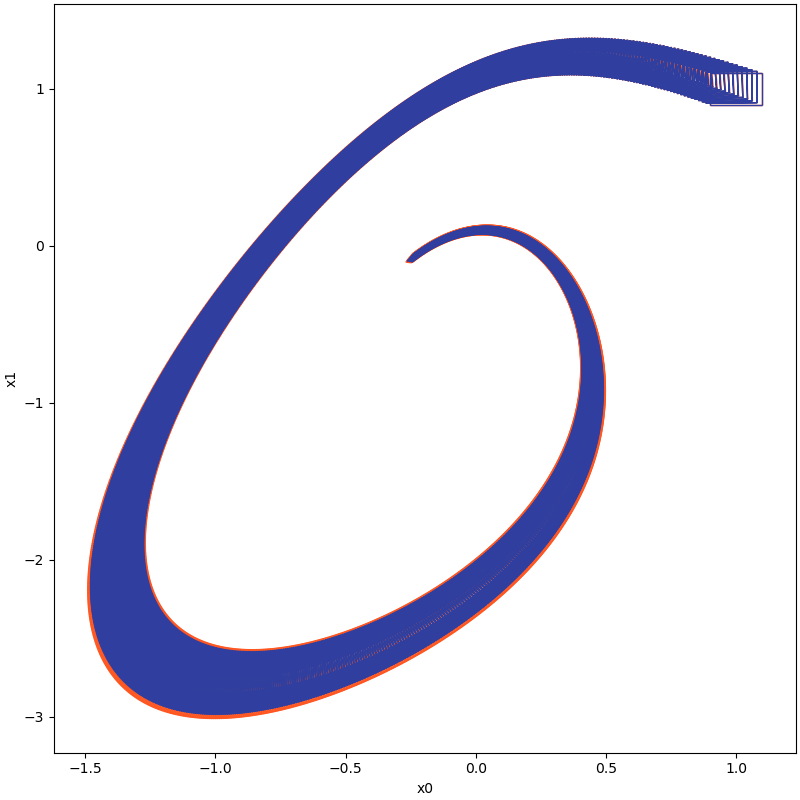
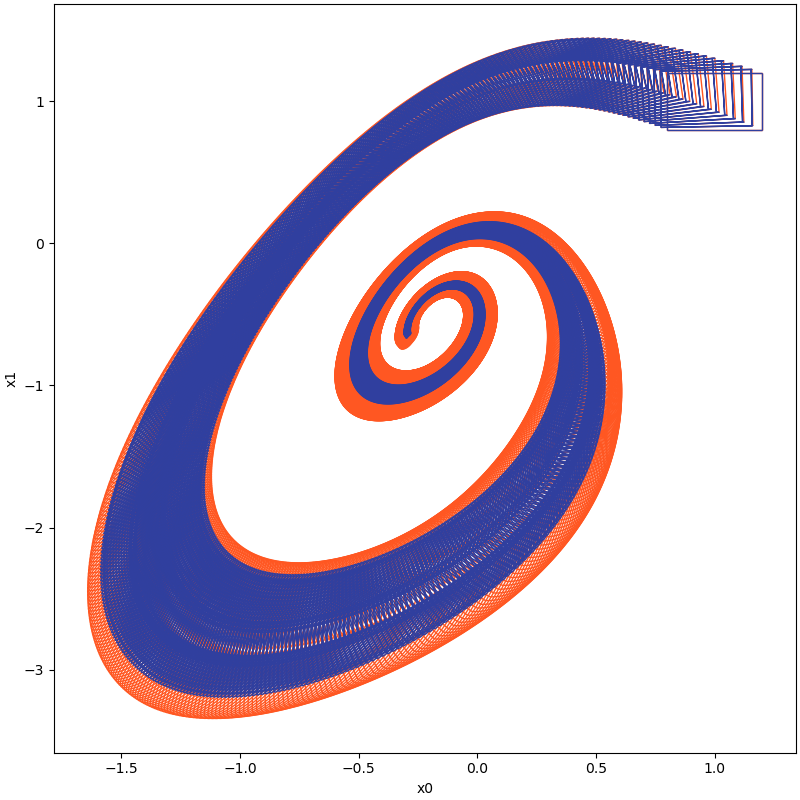
refine samples

diff --git a/test/algorithm/test_asb2008cdc.py b/test/algorithm/test_asb2008cdc.py
@@ -119,8 +119,8 @@ def test_jet_engine_cmp():
 
     # settings for the computation
     options = ASB2008CDC.Options()
-    options.t_end = 5
-    options.step = 0.005
+    options.t_end = 10
+    options.step = 0.01
     options.tensor_order = 2
     options.taylor_terms = 4
 
@@ -131,7 +131,7 @@ def test_jet_engine_cmp():
     Zonotope.REDUCE_METHOD = Zonotope.REDUCE_METHOD.GIRARD
     Zonotope.ORDER = 50
 
-    z = Zonotope([1, 1], np.diag([0.1, 0.1]))
+    z = Zonotope([1, 1], np.diag([0.2, 0.2]))
 
     # reachable sets computation without boundary analysis
     options.r0 = [z]

diff --git a/example/benchmark_jet_engine_cmp.py b/example/benchmark_jet_engine_cmp.py
@@ -26,7 +26,7 @@ options.u_trans = options.u.c
 Zonotope.REDUCE_METHOD = Zonotope.REDUCE_METHOD.GIRARD
 Zonotope.ORDER = 50
 
-z = Zonotope([1, 1], np.diag([0.1, 0.1]))
+z = Zonotope([1, 1], np.diag([0.2, 0.2]))
 
 # reachable sets computation without boundary analysis
 options.r0 = [z]
